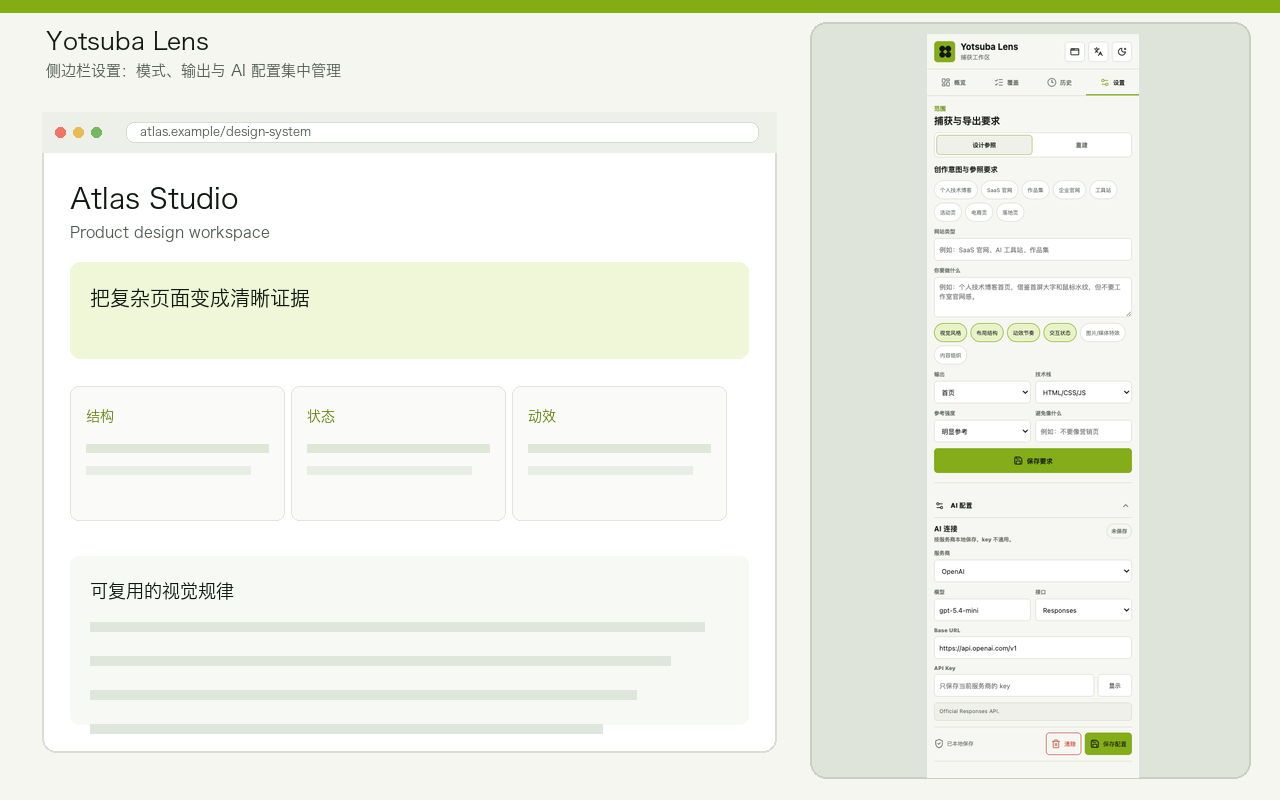
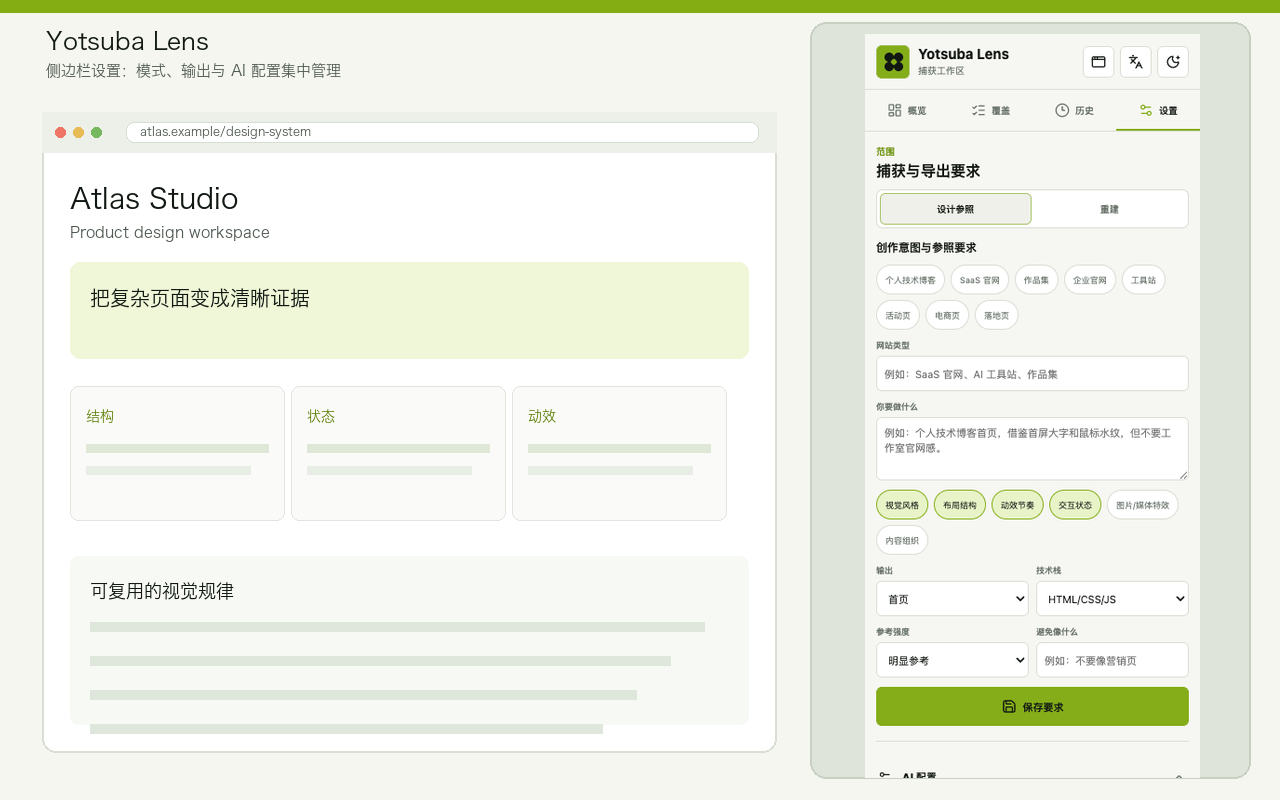
修正商店横图的侧边栏比例
顶部宣传图改为网页与 Chrome 右侧栏的真实并排结构；商店截图仅展示侧边栏首屏视口，避免缩放整张长设置页。

Changed region(s): [[0.6562, 0.0312, 0.9375, 0.9688], [0.7812, 0.0312, 0.9375, 0.1875], [0.8438, 0.2188, 0.9375, 0.2812]]

diff --git a/scripts/build-store-assets.py b/scripts/build-store-assets.py
@@ -119,20 +119,39 @@ def make_top_promo():
         draw.text((64, y), line, fill=LIGHT, font=f)
         y += 64
     draw.text((64, 390), "设计参照 · 经授权重建 · 智能捕获 · 缺口提示", fill="#b8c1b9", font=font(22))
-    panel_path = SOURCE / "design-lens-sidepanel-coverage.png"
-    panel = Image.open(panel_path).convert("RGB")
-    current_panel = ASSETS / "screenshot-evidence-workspace-1280x800.png"
-    if not current_panel.exists():
-        current_panel = ROOT / "output" / "playwright" / "extension-ui" / "sidepanel-zh-light.png"
-    if current_panel.exists():
-        panel = Image.open(current_panel).convert("RGB")
-    panel.thumbnail((700, 410), Image.Resampling.LANCZOS)
-    frame = (650, 92, 1340, 468)
-    draw.rounded_rectangle(frame, radius=12, fill="#e9ece4", outline="#cdd2c9", width=2)
-    x = frame[0] + (frame[2] - frame[0] - panel.width) // 2
-    y = frame[1] + (frame[3] - frame[1] - panel.height) // 2
-    draw.rounded_rectangle((x - 2, y - 2, x + panel.width + 2, y + panel.height + 2), radius=8, fill="#ffffff")
-    image.paste(panel, (x, y))
+    frame = (650, 72, 1340, 488)
+    draw.rounded_rectangle(frame, radius=12, fill="#ffffff", outline="#cdd2c9", width=2)
+    draw.rectangle((652, 74, 1338, 110), fill="#e9ece4")
+    for dot_x, color in [(672, "#ef7567"), (690, "#e7bb55"), (708, "#76b85d")]:
+        draw.ellipse((dot_x - 5, 87, dot_x + 5, 97), fill=color)
+    draw.rounded_rectangle((734, 82, 1318, 102), radius=8, fill="#ffffff", outline="#d6ddd2")
+    draw.text((748, 85), "atlas.example/design-system", fill=MUTED, font=font(12))
+
+    page_left, page_top, page_right, page_bottom = 652, 110, 1044, 486
+    draw.rectangle((page_left, page_top, page_right, page_bottom), fill="#f8faf6")
+    draw.text((680, 136), "Atlas Studio", fill=INK, font=font(22, True))
+    draw.text((680, 170), "Product design workspace", fill=MUTED, font=font(13))
+    draw.rounded_rectangle((680, 210, 1016, 286), radius=8, fill="#eef5d4")
+    draw.text((700, 232), "把复杂页面变成清晰证据", fill=INK, font=font(16, True))
+    for index, label in enumerate(["结构", "状态", "动效"]):
+        card_x = 680 + index * 113
+        draw.rounded_rectangle((card_x, 312, card_x + 100, 410), radius=7, fill="#ffffff", outline="#dfe5dc")
+        draw.text((card_x + 12, 328), label, fill=LIME_DARK, font=font(12, True))
+        draw.rectangle((card_x + 12, 360, card_x + 84, 367), fill="#dfe7d7")
+        draw.rectangle((card_x + 12, 380, card_x + 72, 387), fill="#e8ede5")
+
+    draw.rectangle((1044, 110, 1338, 486), fill="#f5f6f0")
+    draw.line((1044, 110, 1044, 486), fill="#cdd2c9", width=2)
+    panel_path = ROOT / "output" / "playwright" / "extension-ui" / "sidepanel-settings-zh-light.png"
+    if not panel_path.exists():
+        panel_path = ROOT / "output" / "playwright" / "extension-ui" / "sidepanel-zh-light.png"
+    if panel_path.exists():
+        panel = Image.open(panel_path).convert("RGB")
+        panel = panel.crop((0, 0, panel.width, min(panel.height, 800)))
+        target_width = 294
+        panel = panel.resize((target_width, round(panel.height * target_width / panel.width)), Image.Resampling.LANCZOS)
+        panel = panel.crop((0, 0, target_width, min(panel.height, 376)))
+        image.paste(panel, (1044, 110))
     image.save(ASSETS / "promo-top-1400x560.png", format="PNG", optimize=True)
 
 
@@ -175,6 +194,7 @@ def normalize_screenshots():
                 break
         if panel is None:
             panel = Image.new("RGB", (360, 800), "#f5f6f0")
+        panel = panel.crop((0, 0, panel.width, min(panel.height, 800)))
         panel.thumbnail((410, 744), Image.Resampling.LANCZOS)
         panel_x = 828 + (410 - panel.width) // 2
         panel_y = 34 + (744 - panel.height) // 2
